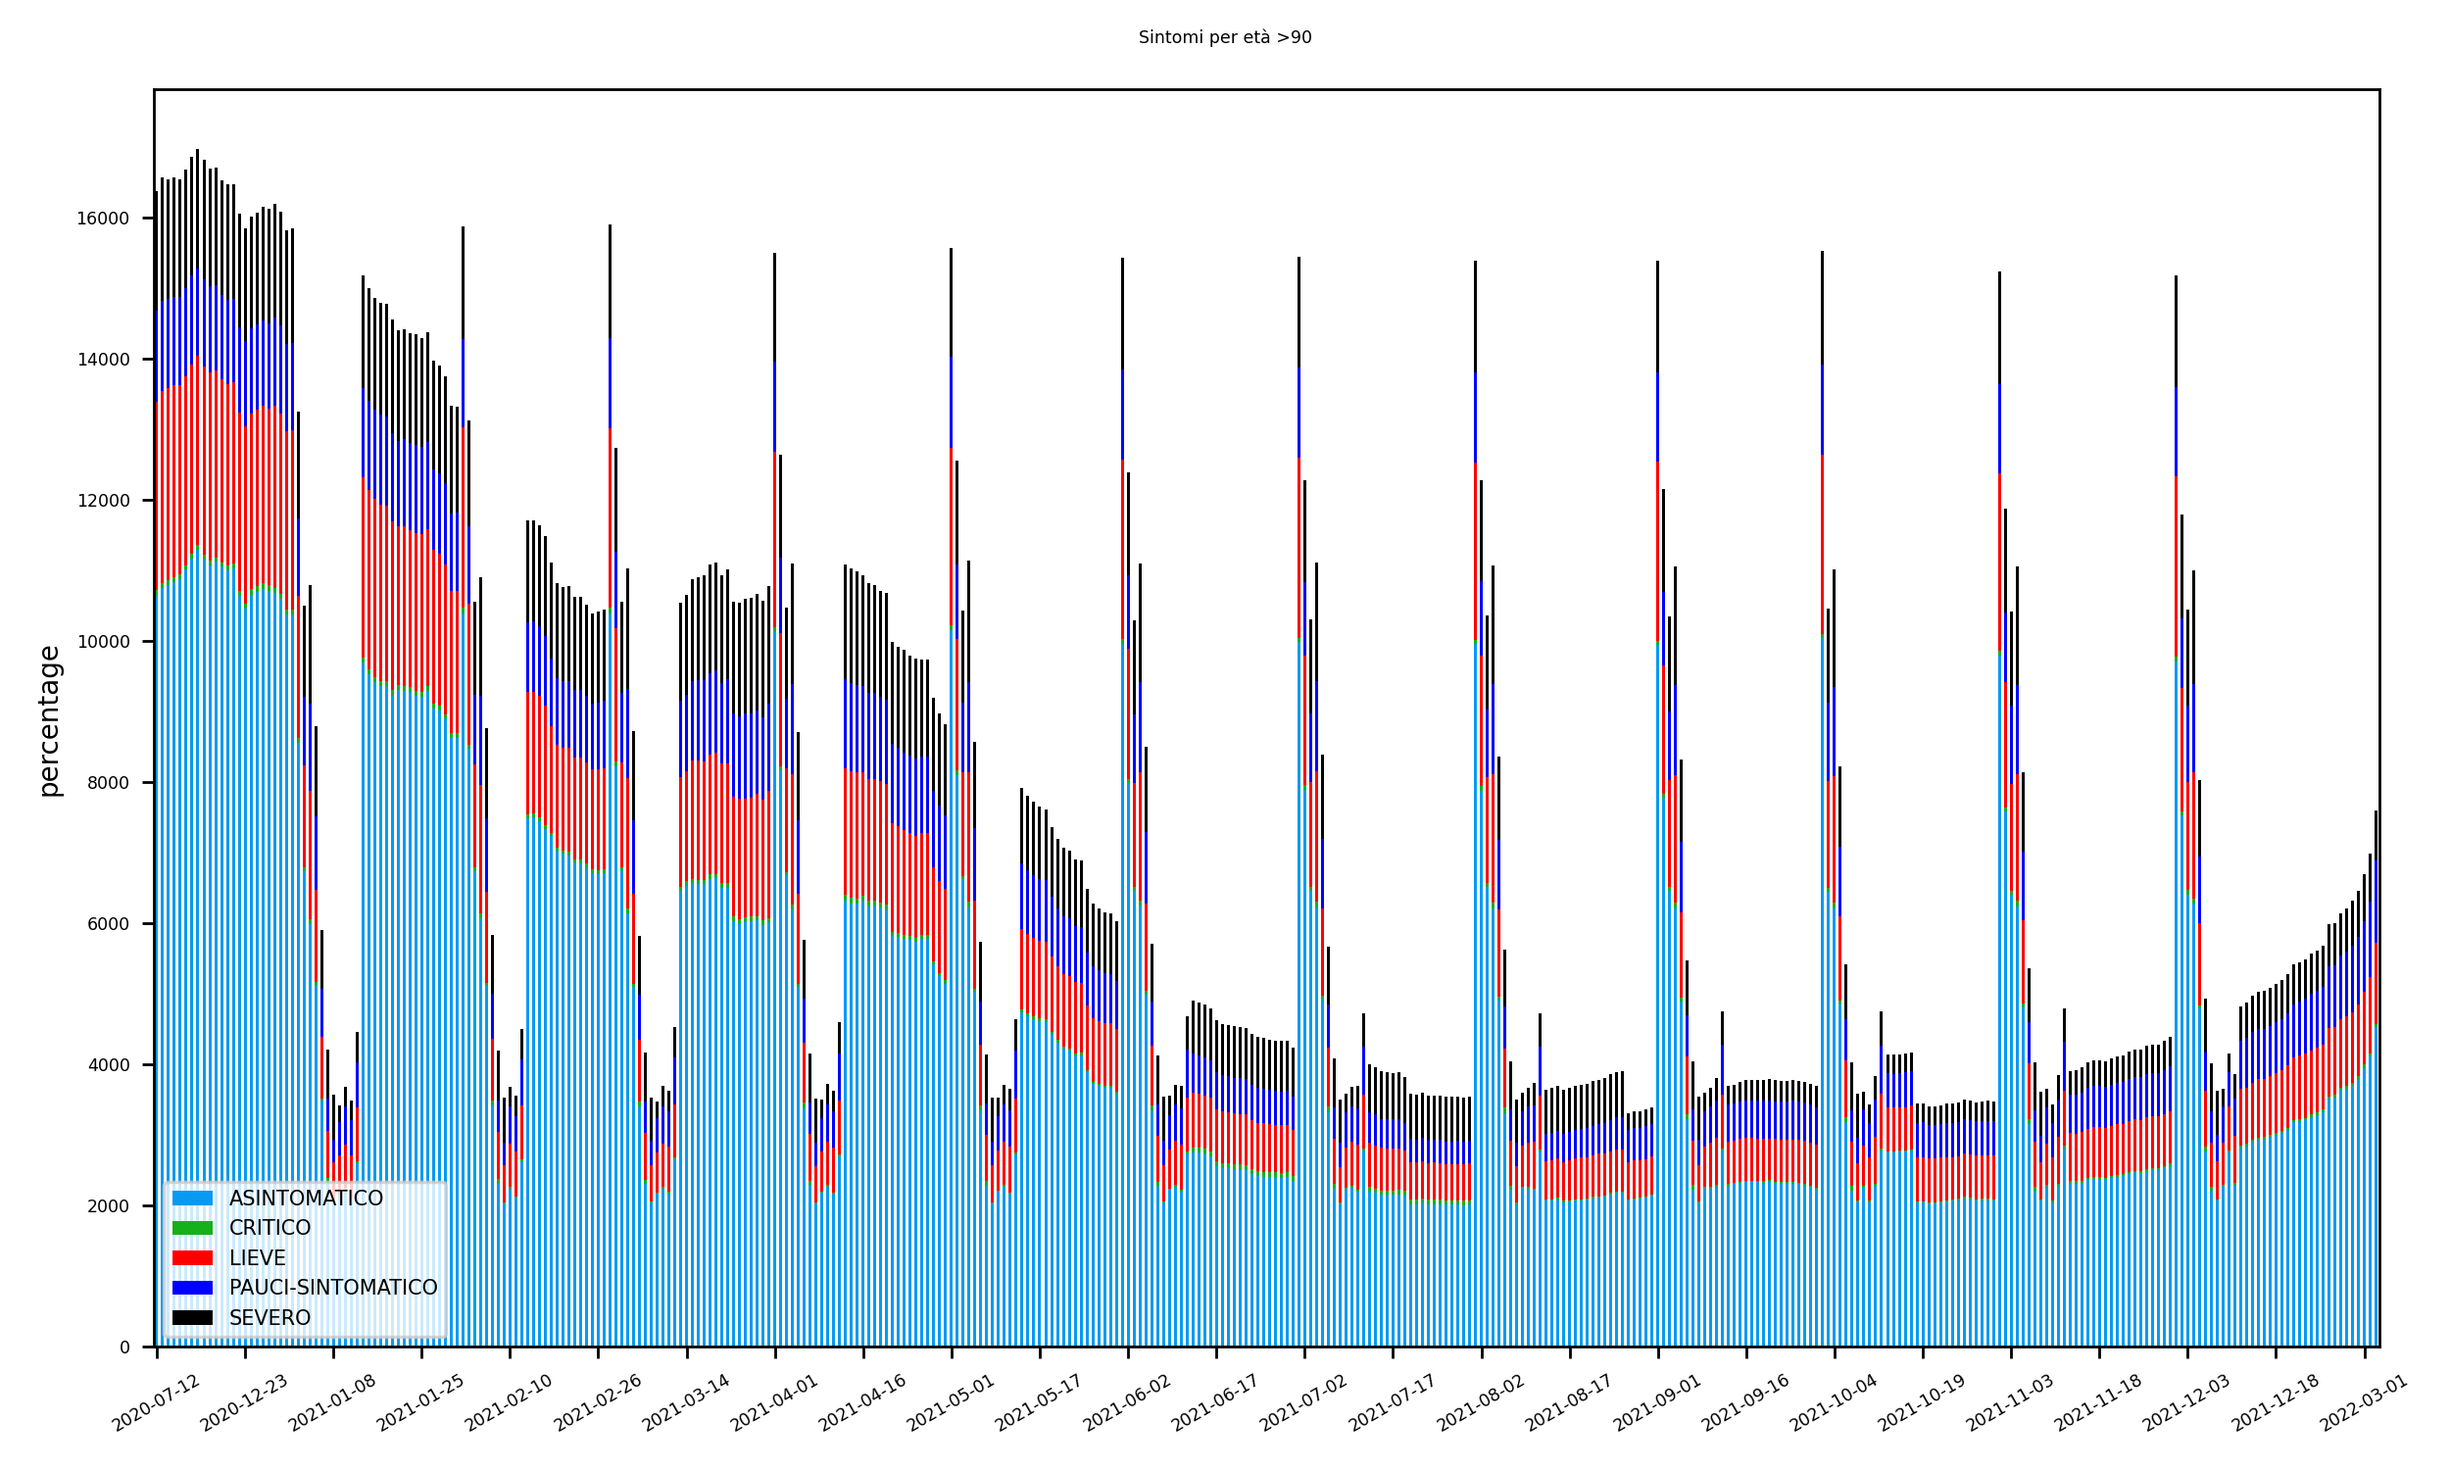
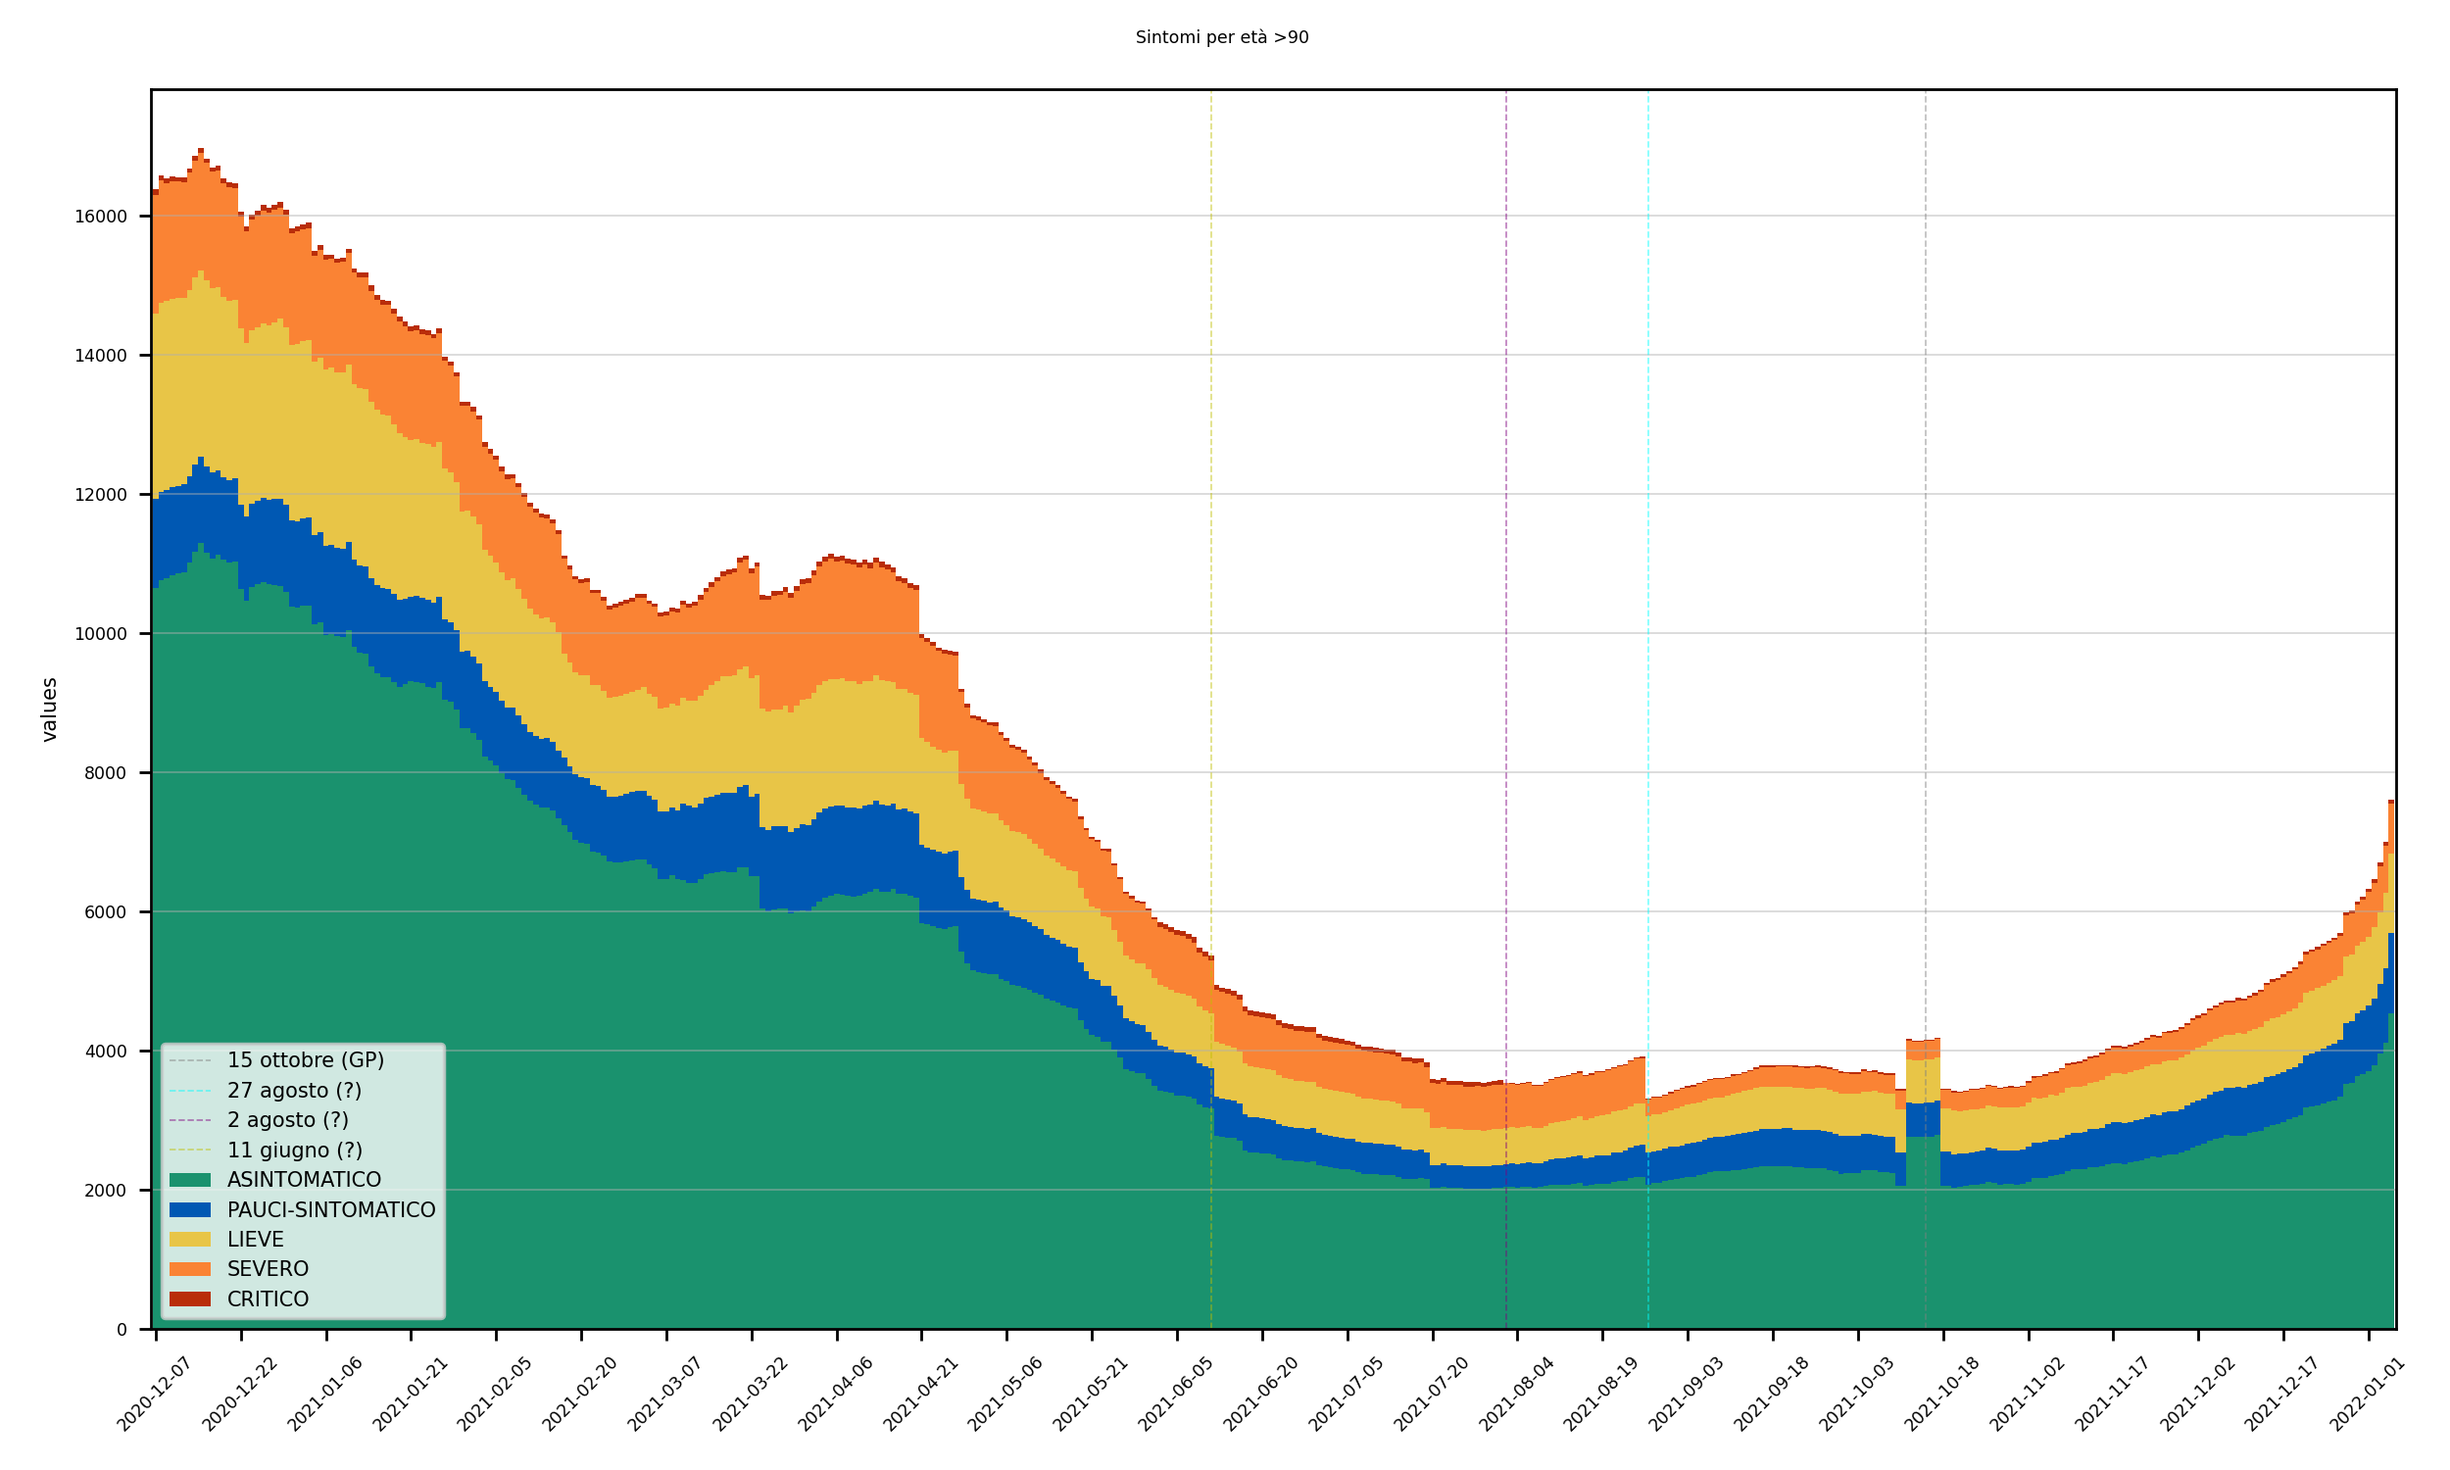
img sintomi

diff --git a/sintomi/sintomi.py b/sintomi/sintomi.py
@@ -12,7 +12,8 @@ for f in files:
 
 	print(f)
 
-	data = pd.read_csv(f + '/stato_clinico.csv', parse_dates=['iss_date'], encoding="ISO-8859-1") 
+	dpf = lambda s: datetime.datetime.strptime(s,'%d/%m/%Y')
+	data = pd.read_csv(f + '/stato_clinico.csv', parse_dates=['iss_date'], date_parser=dpf, encoding="ISO-8859-1") 
 
 	if all_data is None:
 		all_data = data
@@ -25,43 +26,88 @@ all_data.sort_values(by=['iss_date'])
 
 all_data.drop_duplicates(keep='first', inplace=True) 
 
-all_data.loc[all_data['CASI'] == '<5', 'CASI'] = 3
+all_data.loc[all_data['CASI'] == '<5', 'CASI'] = 2
 print(all_data[4910:])
 
 all_data['CASI'] = all_data['CASI'].astype(int)
-
-
 all_data['iss_date'] = pd.to_datetime(all_data['iss_date']).dt.date
 
-ages = ['10-19', '20-29', '30-39', '40-49', '50-59', '60-69', '70-79', '80-89', '>90', 'Non noto']
-#ages = ['all']
 
-all_dates = pd.DataFrame(all_data['iss_date'].unique(), columns=['_data'])
-stati = pd.DataFrame(all_data['STATO_CLINICO'].unique(), columns=['_stato'])
+# handle missing dates
+all_dates = pd.date_range(start=all_data['iss_date'].min(), end=all_data['iss_date'].max())
+print(all_data['iss_date'].min(), all_data['iss_date'].max())
 
 print(all_dates)
-print(stati)
+
+
+all_dates = pd.DataFrame(all_dates, columns=['_data'])
+
+stati = pd.DataFrame(all_data['STATO_CLINICO'].unique(), columns=['_stato'])
+
+oct_15_idx = all_dates.index[all_dates['_data']=='2021-10-15'].tolist()[0]
+print("oct_15_idx", oct_15_idx)
+
+aug_27_idx = all_dates.index[all_dates['_data']=='2021-08-27'].tolist()[0]
+aug_2_idx = all_dates.index[all_dates['_data']=='2021-08-02'].tolist()[0]
+giu_11_idx = all_dates.index[all_dates['_data']=='2021-06-11'].tolist()[0]
+
+all_dates['_data'] = pd.to_datetime(all_dates['_data']).dt.date
+
+# cartesian product
 all_dates['dummy'] = 'a'
 stati['dummy'] = 'a'
-
 idx =all_dates.merge(stati, how='inner', on='dummy')
 del idx['dummy']
+new_index = pd.Index(idx, name="A")
+print(new_index)
 
-print(idx)
+ages = ['all'] + list(all_data['AGE_GROUP'].unique())
+#ages = ['all']
+print(ages)
 
+
+interp = True
+MA = False
+perc = not True
+sex = None #'F'
 for age in ages:
 
-	df = all_data.groupby(['iss_date','AGE_GROUP', 'STATO_CLINICO'])['CASI'].sum().reset_index()	# sum sex
+	df = all_data.copy()
+	if sex:
+		df = df.loc[df['SESSO'] == sex]
 
-	df = df.loc[df['AGE_GROUP'] == age]
+	if age == 'all':
+		df = df.groupby(['iss_date', 'STATO_CLINICO'])['CASI'].sum().reset_index()	# sum age, sex
+	else:
+		df = df.groupby(['iss_date','AGE_GROUP', 'STATO_CLINICO'])['CASI'].sum().reset_index()	# sum sex
+		df = df.loc[df['AGE_GROUP'] == age]
+
 	df = df[['iss_date', 'STATO_CLINICO', 'CASI']]
 
-	df.set_index("iss_date")
+	#df.set_index("iss_date")
+
+	df = df.set_index(["iss_date", "STATO_CLINICO"])
+	df = df.reindex(new_index)
+
+	with pd.option_context('display.max_rows', None):
+		print(df)
 
 
-	df = df.groupby(['iss_date', 'STATO_CLINICO']).sum().unstack()
+	df = df.unstack()   #df.groupby(['iss_date', 'STATO_CLINICO']).sum().unstack()
+	print(df)
+
+	# sort columns
+	df = df[[('CASI', 'ASINTOMATICO'), ('CASI', 'PAUCI-SINTOMATICO'), ('CASI', 'LIEVE'), ('CASI', 'SEVERO'), ('CASI', 'CRITICO')]]
+	#df = df[[('CASI', 'SEVERO')]]
+
+	if interp:
+		df =df.interpolate()
+
 	#df.sort_values(by=['iss_date'])
-	print(df.shape)
+
+	# rolling
+	if MA:
+		df = df.rolling(axis=0, window=30).mean()
 
 	df[('CASI_PERC', 'ASINTOMATICO')] = 100 * df[('CASI',      'ASINTOMATICO')] / df['CASI'].sum(axis=1)
 	df[('CASI_PERC', 'PAUCI-SINTOMATICO')] = 100 * df[('CASI',      'PAUCI-SINTOMATICO')] / df['CASI'].sum(axis=1)
@@ -69,33 +115,57 @@ for age in ages:
 	df[('CASI_PERC', 'SEVERO')] = 100 * df[('CASI',      'SEVERO')] / df['CASI'].sum(axis=1)
 	df[('CASI_PERC', 'CRITICO')] = 100 * df[('CASI',      'CRITICO')] / df['CASI'].sum(axis=1)
 
-	print(df)
+	#with pd.option_context('display.max_rows', None):
+	#	print(df)
 
-	ax = df.plot(y='CASI_PERC', kind='bar', stacked=True, color=['#069af3', '#15b01a', 'r', 'b', 'k'], figsize=(10,6), rot=30);
+	idx_name = 'CASI_PERC' if perc else 'CASI'
 
-	ax.legend(loc='lower left', fontsize = 6) 
-
-	ax.set_ylabel('percentage', fontsize = 8)
-	ax.set_xlabel(None)
-
-	#plt.axvline(x=161, color="green", linewidth=0.5, alpha=0.5, linestyle='--', label="1 luglio (EU GP)")
-	#plt.axvline(x=267, color="purple", linewidth=0.5, alpha=0.5, linestyle='--', label="15 ottobre (GP)")	# 15 ottobre
-	#plt.axvline(x=319, color="red", linewidth=0.5, alpha=0.5, linestyle='--', label="6 dicembre (SGP)")	# 6 dicembre
-	#plt.axvline(x=330, color="gray", linewidth=0.5, alpha=0.5, linestyle='--', label="25 dicembre")
+	ax = df.plot(y=idx_name, kind='bar', stacked=True, width=1, color=['#1a926e', '#0058b3', '#e8c547', '#fa8334', '#b92d0a'], figsize=(10,6), rot=45);
 
 	plt.xticks(fontsize = 5)
 	plt.yticks(fontsize = 5)
+
+	ax.grid(axis='y', alpha=0.5, linewidth=0.5)
+
+	if perc:
+		ax.set_ylabel('percentage', fontsize = 6)
+	else:
+		ax.set_ylabel('values', fontsize = 6)
+	ax.set_xlabel(None)
+
+	plt.axvline(x=oct_15_idx, color="gray", linewidth=0.5, alpha=0.5, linestyle='--', label="15 ottobre (GP)")	# 15 ottobre
+	plt.axvline(x=aug_27_idx, color="cyan", linewidth=0.5, alpha=0.5, linestyle='--', label="27 agosto (?)")
+	plt.axvline(x=aug_2_idx, color="purple", linewidth=0.5, alpha=0.5, linestyle='--', label="2 agosto (?)")
+	plt.axvline(x=giu_11_idx, color="y", linewidth=0.5, alpha=0.5, linestyle='--', label="11 giugno (?)")
+
+
+
+	#plt.axvline(x=161, color="green", linewidth=0.5, alpha=0.5, linestyle='--', label="1 luglio (EU GP)")
+	#plt.axvline(x=319, color="red", linewidth=0.5, alpha=0.5, linestyle='--', label="6 dicembre (SGP)")	# 6 dicembre
+	#plt.axvline(x=330, color="gray", linewidth=0.5, alpha=0.5, linestyle='--', label="25 dicembre")
+
+	ax.legend(loc='lower left', fontsize = 6) 
 
 	locator=MaxNLocator(prune='both', nbins=30)
 	ax.xaxis.set_major_locator(locator)
 
 	plt.yticks(fontsize = 5)
+	if perc:
+		plt.yticks(range(0, 101, 10))
 
-	plt.suptitle(f"Sintomi per età {age}", fontsize = 5)
+	title_suffix = ""
+	if sex:
+		title_suffix += f"({sex})"
+	plt.suptitle(f"Sintomi per età {age} " + title_suffix, fontsize = 5)
 
 	plt.tight_layout()
 
-	plt.savefig(f"charts/sintomi_{age}.png", dpi=250) 
+	prefix = "" if perc else "val_"
+
+	if sex:
+		prefix += sex + "_"
+
+	plt.savefig(f"charts/{prefix}sintomi_{age}.png", dpi=250) 
 
 	#plt.show()
 
